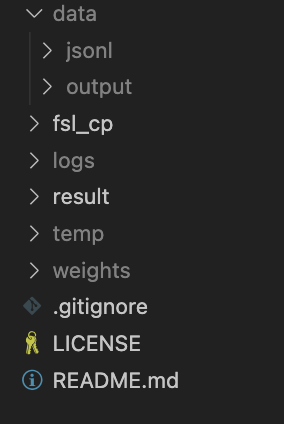
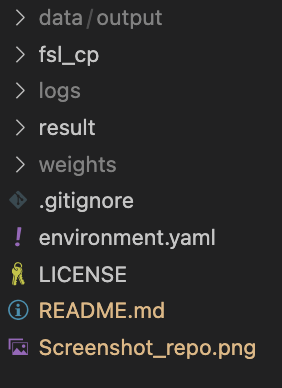
06.03.23

diff --git a/README.md b/README.md
@@ -20,7 +20,7 @@ Note 2: CUDA is not available on MacOS. If you use MacOS, delete 'nvidia' from t
 
 Click on the hyperlink to download the [images](https://irods-web.zdv.uni-mainz.de/irods-rest/rest/fileContents/zdv/home/sonha/fsl_cp_images.zip?ticket=l2P9J6ConqQOLNF), [csv files](https://irods-web.zdv.uni-mainz.de/irods-rest/rest/fileContents/zdv/home/sonha/output.zip?ticket=zLF2wINy8vpK6oK), and [weights of multiask model](https://irods-web.zdv.uni-mainz.de/irods-rest/rest/fileContents/zdv/home/sonha/weights.zip?ticket=vkjYyYjMGvLIQOh).
 
-Since the images are fairly big (~300G), it is a possibility to run curl or wget:
+Since the images are fairly big (~300G), curl or wget can also be used to download:
 
 > curl https://irods-web.zdv.uni-mainz.de/irods-rest/rest/fileContents/zdv/home/sonha/fsl_cp_images.zip?ticket=l2P9J6ConqQOLNF --output fsl_cp_images.zip
 
@@ -32,5 +32,16 @@ Since the images are fairly big (~300G), it is a possibility to run curl or wget
 In addition, we supply a small [sample](https://irods-web.zdv.uni-mainz.de/irods-rest/rest/fileContents/zdv/home/sonha/fsl_cp_sample.zip?ticket=WUTctNZlyRc6Mdw) of the dataset. It is useful for those who are curious what the dataset looks like, but cannot be used to run the scripts.
 
 
-## Additional folders
-A **data**, **logs** and **weights** folder are also needed to run the necessary scripts. 
+## Setting up
+1. Create a *data* folder, place the downloaded *output* folder (csv files) into it.
+2. Place the downloaded *weights* folder.
+3. Create an empty *logs* folder.
+4. Place the images folder anywhere you like.
+
+The folder hierachy should look like the Screenshot_repo.png file.
+
+## Benchmark models
+The codes for all models are placed in the *fsl_cp* folder. 
+
+## Using the dataset
+There are tutorial notebooks available (soon). 
